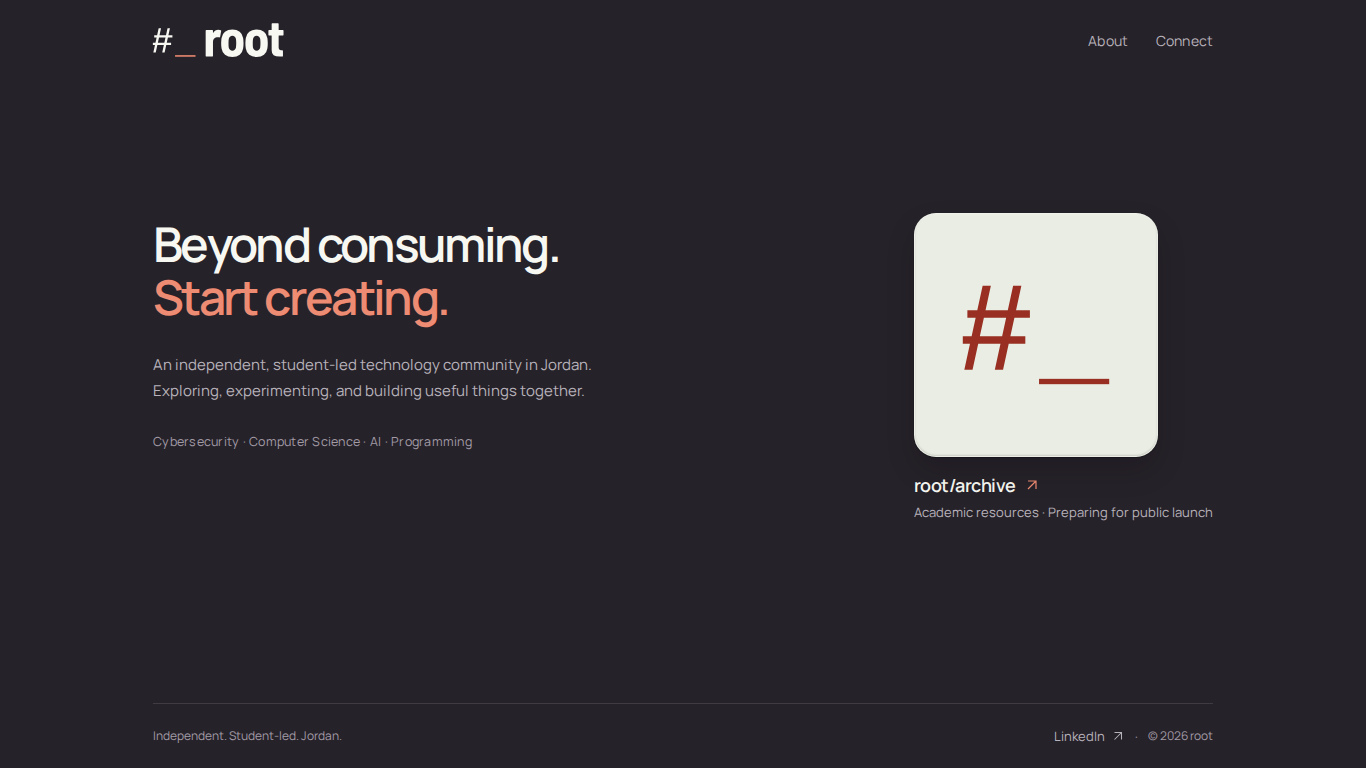
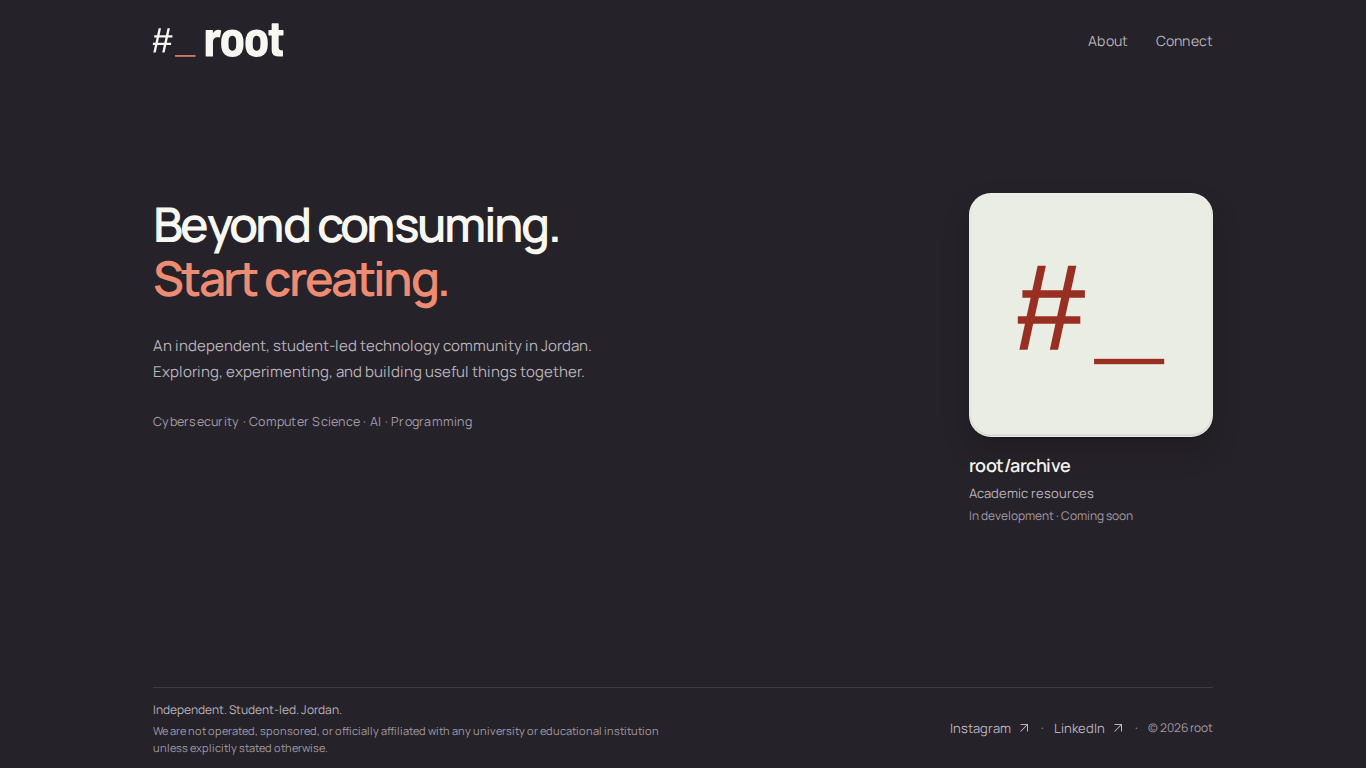
Polish homepage for pre-announcement release

diff --git a/site/styles.css b/site/styles.css
@@ -133,47 +133,39 @@ main:focus { outline: none; }
   line-height: 1.4;
   letter-spacing: -.03em;
 }
-.project-details .arrow { width: 16px; height: 16px; color: var(--coral); transition: transform 220ms ease; }
-.project-details > p {
+.project-details > p:not(.project-status) {
   margin-top: 4px;
   color: var(--muted);
   font-size: 13px;
   line-height: 1.6;
 }
-
-/* Archive hover / focus */
-.project-archive:focus-visible .project-art { transform: translateY(-2px); }
-.project-archive:focus-visible .project-details .arrow { transform: translate(1px, -1px); }
-@media (hover: hover) and (pointer: fine) {
-  .project-archive:hover .project-art {
-    transform: translateY(-2px);
-    box-shadow: 0 1px 1px rgb(9 6 12 / .3), 0 18px 32px rgb(9 6 12 / .25);
-  }
-  .project-archive:hover .project-art::after {
-    border-top-color: rgb(255 255 255 / .55);
-    box-shadow: inset 0 1px 3px rgb(255 255 255 / .35), inset 0 -1px 2px rgb(20 15 24 / .14);
-  }
-  .project-archive:hover .project-details .arrow { transform: translate(1px, -1px); }
+.project-status {
+  margin-top: 4px;
+  color: var(--quiet);
+  font-size: 12px;
+  line-height: 1.5;
 }
 
 /* ── Footer ───────────────────────────────────────────────────── */
 
 .site-footer {
   display: flex;
-  gap: 24px;
+  gap: 32px;
   align-items: center;
   justify-content: space-between;
   min-height: 56px;
-  padding-block: 10px;
+  padding-block: 12px;
   border-top: 1px solid var(--line);
 }
-.site-footer p { color: var(--quiet); font-size: 12px; line-height: 1.7; }
-.footer-right { display: flex; align-items: center; gap: 10px; }
+.footer-left { display: flex; flex-direction: column; gap: 4px; }
+.footer-identity { color: var(--muted); font-size: 12px; line-height: 1.6; }
+.footer-affiliation { color: var(--quiet); font-size: 11px; line-height: 1.5; max-width: 520px; }
+.footer-right { display: flex; align-items: center; gap: 10px; flex-shrink: 0; }
 .footer-sep { color: var(--quiet); font-size: 12px; }
 .connect-link { display: inline-flex; gap: 6px; min-height: 44px; align-items: center; color: var(--muted); font-size: 13px; transition: color 180ms ease; }
 .connect-link:hover { color: var(--cream); }
 .connect-link .arrow { width: 14px; height: 14px; }
-.copyright { text-align: right; }
+.copyright { color: var(--quiet); font-size: 12px; text-align: right; }
 
 /* ── 404 ──────────────────────────────────────────────────────── */
 
@@ -189,7 +181,7 @@ main:focus { outline: none; }
   .hero { gap: 40px; grid-template-columns: 1.1fr 1fr; }
   .hero-left h1 { font-size: 34px; }
   .project-art { width: clamp(180px, 28vw, 230px); }
-  .site-footer { flex-wrap: wrap; gap: 4px 24px; }
+  .site-footer { flex-wrap: wrap; gap: 12px 24px; }
 }
 
 @media (max-width: 700px) {
@@ -203,6 +195,7 @@ main:focus { outline: none; }
   .project-archive { align-items: flex-start; text-align: left; }
   .project-details h2 { justify-content: flex-start; }
   main.wrap { padding-block: 16px 32px; justify-content: flex-start; padding-top: 24px; }
+  .site-footer { flex-direction: column; align-items: flex-start; gap: 12px; }
 }
 
 @media (max-width: 480px) {
@@ -216,9 +209,9 @@ main:focus { outline: none; }
   .hero-topics { margin-top: 16px; }
   .project-art { width: 200px; border-radius: 18px; }
   .project-details h2 { font-size: 17px; }
-  .site-footer { display: grid; grid-template-columns: 1fr auto; gap: 2px 12px; padding-block: 8px 18px; }
-  .site-footer > p:first-child { grid-column: 1 / -1; font-size: 11px; }
-  .footer-right { gap: 8px; }
+  .site-footer { flex-direction: column; align-items: flex-start; gap: 12px; padding-block: 10px 18px; }
+  .footer-affiliation { font-size: 10.5px; }
+  .footer-right { flex-wrap: wrap; gap: 6px 8px; }
   .connect-link { font-size: 12px; }
   .copyright { font-size: 11px; }
 }
@@ -226,6 +219,4 @@ main:focus { outline: none; }
 @media (prefers-reduced-motion: reduce) {
   html { scroll-behavior: auto; }
   *, *::before, *::after { transition: none !important; animation: none !important; }
-  .project-archive:hover .project-art, .project-archive:focus-visible .project-art,
-  .project-archive:hover .project-details .arrow, .project-archive:focus-visible .project-details .arrow { transform: none; }
 }

diff --git a/site/index.html b/site/index.html
@@ -44,22 +44,28 @@
         <p class="hero-topics">Cybersecurity · Computer Science · AI · Programming</p>
       </div>
       <div class="hero-right">
-        <a class="project-archive" href="https://archive.rootamman.com" aria-labelledby="archive-name" aria-describedby="archive-desc">
+        <article class="project-archive" aria-labelledby="archive-name" aria-describedby="archive-desc archive-status">
           <div class="project-art" aria-hidden="true">
             <img src="assets/brand/root-archive.svg" width="2048" height="2048" alt="">
           </div>
           <div class="project-details">
-            <h2 id="archive-name">root/archive <svg class="arrow" viewBox="0 0 20 20" aria-hidden="true" focusable="false"><path d="m5 15 10-10M5 5h10v10"/></svg></h2>
-            <p id="archive-desc">Academic resources · Preparing for public launch</p>
+            <h2 id="archive-name">root/archive</h2>
+            <p id="archive-desc">Academic resources</p>
+            <p class="project-status" id="archive-status">In development · Coming soon</p>
           </div>
-        </a>
+        </article>
       </div>
     </div>
   </main>
 
   <footer class="site-footer wrap" id="connect">
-    <p>Independent. Student-led. Jordan.</p>
+    <div class="footer-left">
+      <p class="footer-identity">Independent. Student-led. Jordan.</p>
+      <p class="footer-affiliation">We are not operated, sponsored, or officially affiliated with any university or educational institution unless explicitly stated otherwise.</p>
+    </div>
     <div class="footer-right">
+      <a class="connect-link" href="https://www.instagram.com/rootamman/">Instagram <svg class="arrow" viewBox="0 0 20 20" aria-hidden="true" focusable="false"><path d="m5 15 10-10M5 5h10v10"/></svg></a>
+      <span class="footer-sep" aria-hidden="true">·</span>
       <a class="connect-link" href="https://www.linkedin.com/company/rootamman/">LinkedIn <svg class="arrow" viewBox="0 0 20 20" aria-hidden="true" focusable="false"><path d="m5 15 10-10M5 5h10v10"/></svg></a>
       <span class="footer-sep" aria-hidden="true">·</span>
       <p class="copyright">© 2026 root</p>

diff --git a/README.md b/README.md
@@ -55,29 +55,28 @@ automatically. Use an anchor only when a project has a real destination. Use a
 noninteractive article for upcoming initiatives. Each item has a logo, name,
 description, and optional status. No scripting is needed.
 
-The archive link intentionally points to `https://archive.rootamman.com` while
-its label says “Preparing for public launch.” Competitions is an article with
-no link, button role, or tab stop. The only social link is the supplied LinkedIn
-page. No contact email was supplied, so none is shown. Update the copyright
-year in the HTML when needed.
+The archive showcase is noninteractive with an "In development · Coming soon"
+status while the project prepares for public announcement. It contains no link,
+button role, or tab stop. The community links connect to official Instagram and
+LinkedIn destinations. No contact email was supplied, so none is shown. Update
+the copyright year in the HTML when needed.
 
 ## Brand provenance
 
-The root lockups, parent symbol, and two project SVGs are supplied attachments,
-preserved byte for byte. Only archive and competitions appear in the launcher.
+The root lockups, parent symbol, and project SVGs are supplied attachments,
+preserved byte for byte.
 
-Archive uses the approved `#982F22` mark on `#E9EDE3`; competitions uses
-`#E2E4E8` on `#25272B`. The complete square SVGs are displayed directly as
-standalone artwork, including their approved backgrounds. The logo images
-have no reconstructed paths, clipping contours, masks, filters, color changes,
-opacity changes, or perspective distortion. CSS rounds only the background
-surface corners and adds a restrained perimeter highlight and shallow shadow.
-Names, descriptions, and statuses sit beneath the artwork, outside its surface.
-Competitions has a quieter perimeter treatment and an explicit upcoming status.
+Archive uses the approved `#982F22` mark on `#E9EDE3`. The complete square SVG
+is displayed directly as standalone artwork, including its approved background.
+The logo image has no reconstructed paths, clipping contours, masks, filters,
+color changes, opacity changes, or perspective distortion. CSS rounds only the
+background surface corners and adds a restrained perimeter highlight and
+shallow shadow. Name, description, and status sit beneath the artwork, outside
+its surface.
 
-The header uses `root-barlow-lockup-dark-transparent.svg`; the launcher uses
-`root-archive.svg` and `root-competitions.svg`; the favicon uses `root.svg`.
-SHA-256 fingerprints of these approved files are recorded in the browser check.
+The header uses `root-barlow-lockup-dark-transparent.svg`; the featured project
+uses `root-archive.svg`; the favicon uses `root.svg`. SHA-256 fingerprints of
+these approved files are recorded in the browser check.
 
 Manrope is the Latin variable WOFF2 subset from
 `@fontsource-variable/manrope@5.3.0`, distributed under the included SIL Open
@@ -104,5 +103,5 @@ the site's security headers, tests five viewport sizes, and saves the requested
 1440 × 900, 1366 × 768, and 390 × 844 screenshots. It checks actual foreground
 and background pixels in the rendered logos, rather than treating a successful
 image load as proof that the artwork is visible. It also checks keyboard order,
-the skip link, focus, hover, reduced motion, archive navigation with an intercepted
-response, the custom 404, and axe WCAG accessibility rules.
+the skip link, focus, reduced motion, noninteractive archive showcase,
+the custom 404, and axe WCAG accessibility rules.

diff --git a/docs/validation.md b/docs/validation.md
@@ -26,9 +26,9 @@ The reproducible `scripts/check-browser.cjs` check passed for all five sizes:
 actual logo foreground/background pixels, approved asset fingerprints and
 proportions, font loading, no horizontal overflow, no console errors, no failed
 assets, and no third-party page requests. Axe reports zero WCAG 2 A/AA, 2.1 AA,
-and 2.2 AA violations. Keyboard order, visible focus, skip-to-main, archive
-hover/focus and navigation, reduced motion, and the custom 404 pass. Navigation
-uses an intercepted response and does not establish remote archive availability.
+and 2.2 AA violations. Keyboard order, visible focus, skip-to-main, noninteractive
+archive showcase with Coming soon status, Instagram and LinkedIn links, reduced
+motion, and the custom 404 pass.
 
 Commands:
 
